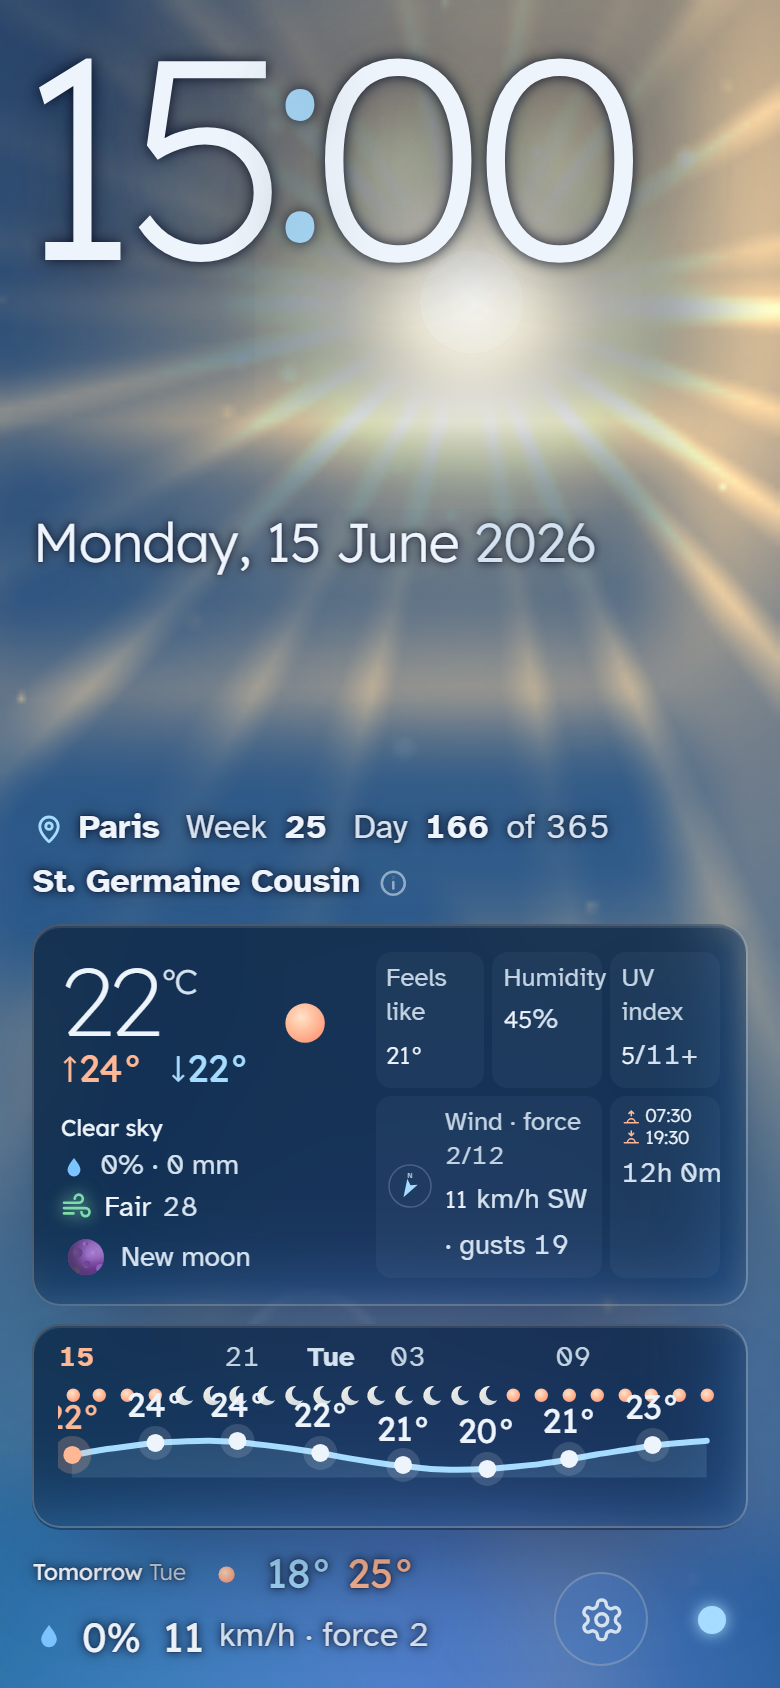
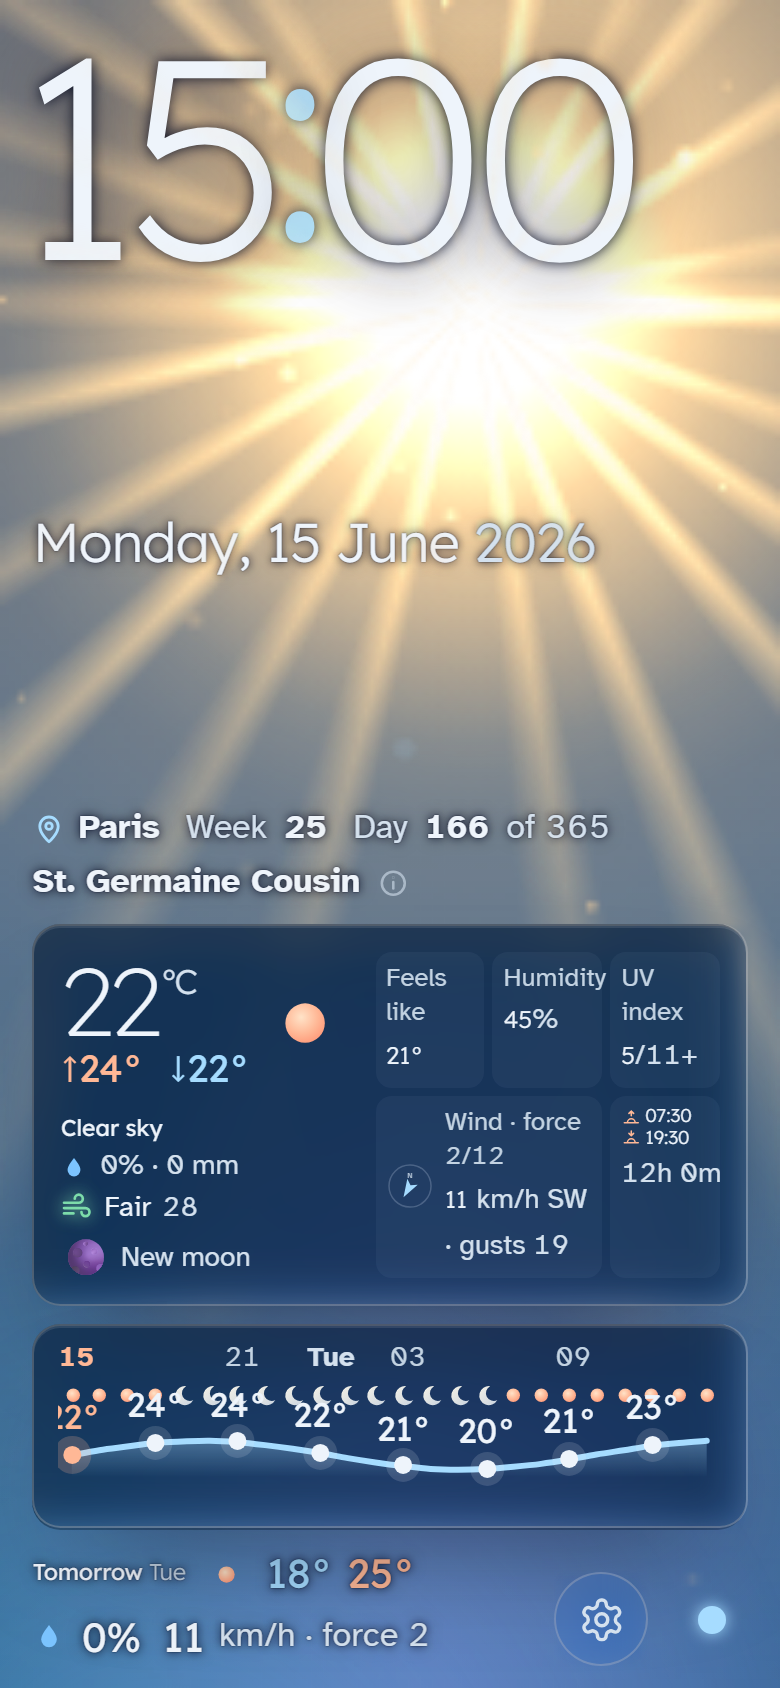
feat(timeline): fade the temperature-curve fill to transparent; refresh SEO/install screenshots
The area under the 24h temperature curve was a flat 14% ice tint; it now
fades from the ice colour at the curve to transparent at the bottom.
Regenerated og-image and the manifest screenshots (scripts/brand-assets.mjs)
and the visual baselines for the new timeline and the front FX layer.

diff --git a/src/components/Timeline24h.svelte b/src/components/Timeline24h.svelte
@@ -96,6 +96,12 @@
     </div>
     <div class="curve">
       <svg viewBox="0 0 100 100" preserveAspectRatio="none" aria-hidden="true">
+        <defs>
+          <linearGradient id="tl-area-fade" x1="0" y1="0" x2="0" y2="1">
+            <stop offset="0" class="fade-from" />
+            <stop offset="1" class="fade-to" />
+          </linearGradient>
+        </defs>
         <path class="area" d={paths.area} />
         <path class="line" d={paths.line} />
       </svg>
@@ -221,8 +227,15 @@
     vector-effect: non-scaling-stroke;
   }
   .curve .area {
-    fill: var(--ice);
-    opacity: 0.14;
+    fill: url(#tl-area-fade);
+  }
+  .curve .fade-from {
+    stop-color: var(--ice);
+    stop-opacity: 0.34;
+  }
+  .curve .fade-to {
+    stop-color: var(--ice);
+    stop-opacity: 0;
   }
   .curve .t {
     position: absolute;
